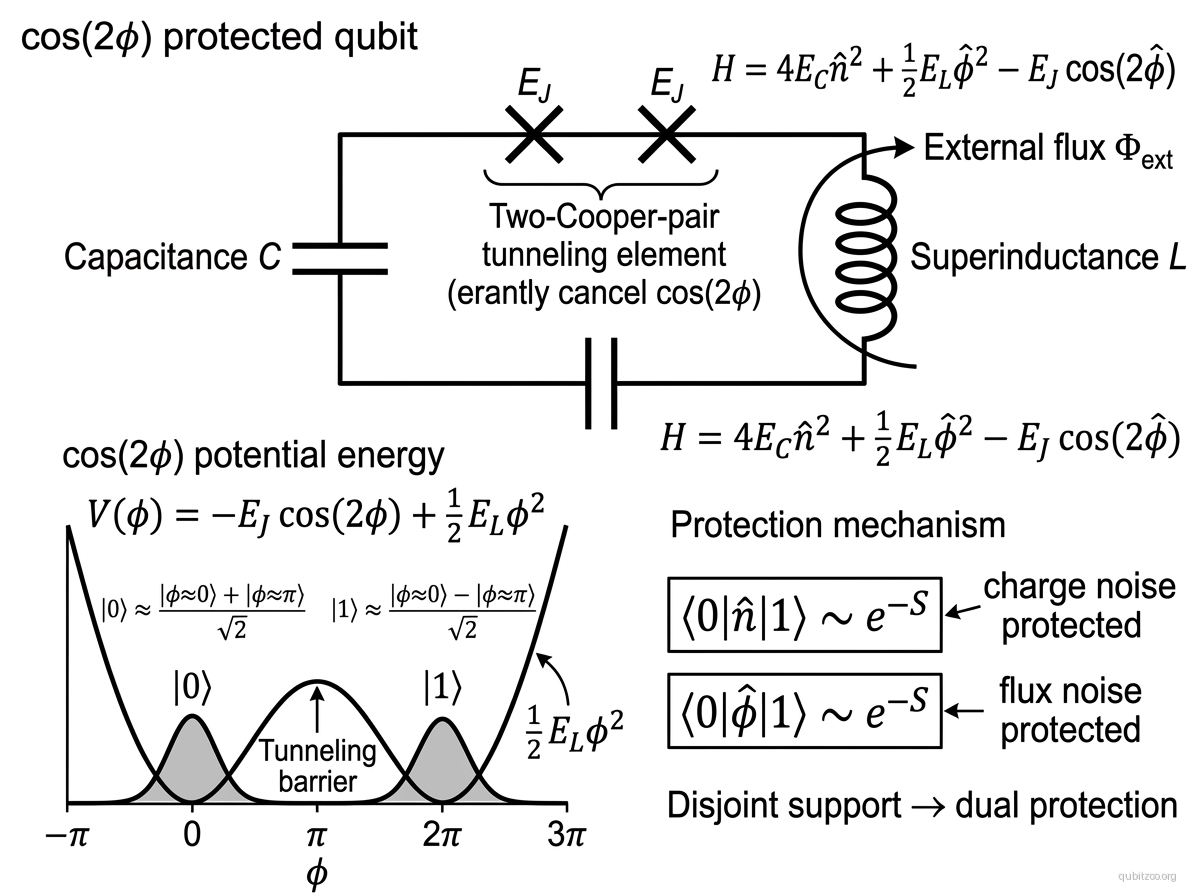
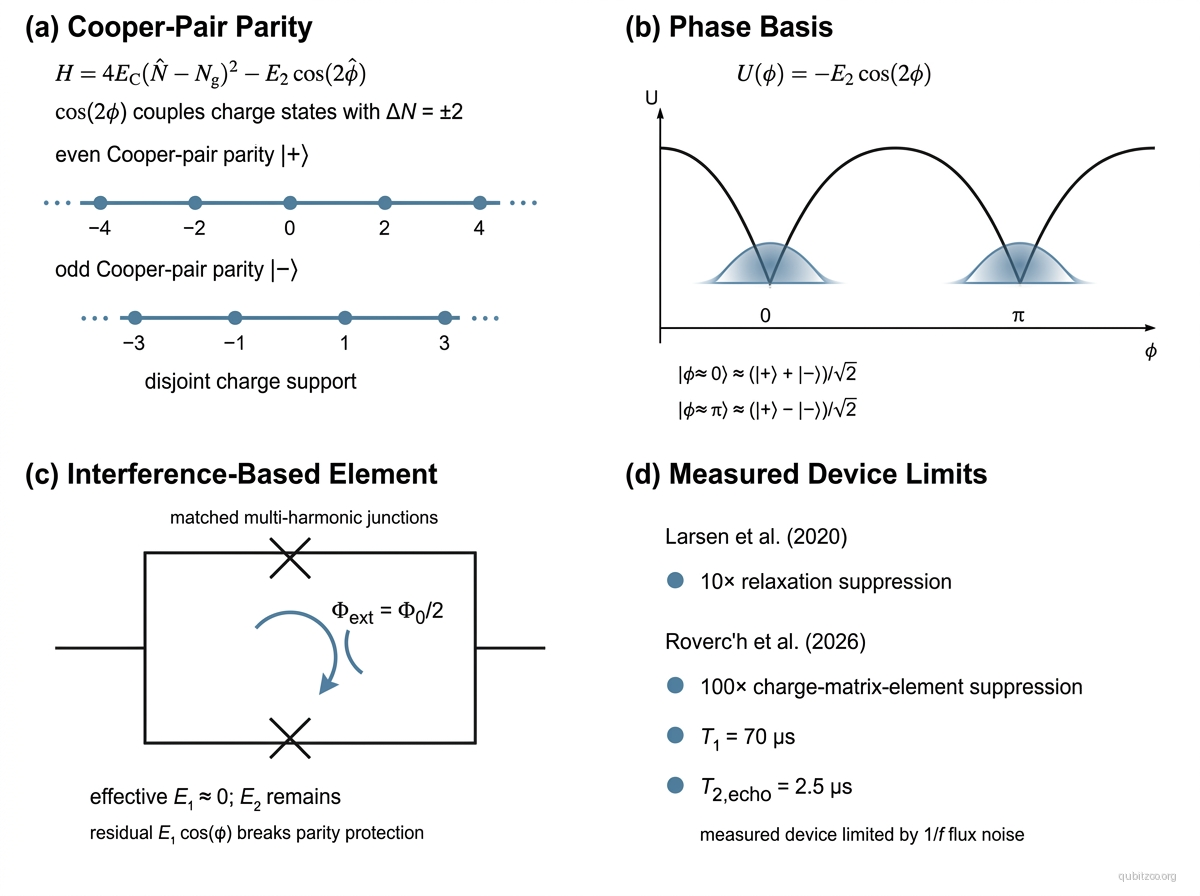
audit: deep-audit cos2phi qubit entry

diff --git a/content/Zoo/cos2phi-qubit.md b/content/Zoo/cos2phi-qubit.md
@@ -2,9 +2,10 @@
 title: cos(2φ) Qubit
 entry_type: qubit
 technology_family: Superconducting
-status: proposed
+status: demonstrated
 figure_reviewed: true
 first_proposed_year: 2019
+first_demonstrated_year: 2020
 keywords:
 - cos2phi
 - protected qubit
@@ -14,10 +15,15 @@ keywords:
 - disjoint support
 - two-Cooper-pair tunneling
 influence_score: 0.60
-last_updated: '2026-03-21'
+last_updated: '2026-08-01'
 generated_by: scibok-curation
 extracted_by: manual
-verified_by: scibok-manual-2026-03-21
+verified_by: scibok-deep-audit-2026-08-01
+figure_renderer: "nano-banana-2"
+figure_model: "google/gemini-3.1-flash-image-preview"
+figure_provenance: "Figures/cos2phi-qubit-figure.provenance.json"
+figure_reviewed_by: "scibok-deep-audit-2026-08-01"
+figure_reviewed_at: "2026-08-01T15:09:23.788429+00:00"
 ---
 
 ## Figure
@@ -26,63 +32,95 @@ verified_by: scibok-manual-2026-03-21
 
 ## Description
 
-The cos(2φ) qubit is a proposed superconducting qubit with intrinsic protection against both charge noise and flux noise simultaneously, achieved through a potential energy that is $\pi$-periodic in the superconducting phase $\phi$ rather than $2\pi$-periodic. The qubit states are encoded in two degenerate minima of this $\cos(2\phi)$ potential, and transitions between them require tunneling through a large barrier — exponentially suppressing both bit-flip and phase-flip errors.
+The cos(2φ) qubit is a parity-protected superconducting qubit built around a Josephson element whose energy is approximately $\pi$-periodic in the superconducting phase. In the ideal limit, the element coherently transfers pairs of Cooper pairs (charge $4e$), producing a $-E_2\cos(2\phi)$ potential and conserving the parity of the Cooper-pair number on the island.
 
-Most superconducting qubits are protected against one type of noise at the cost of sensitivity to another. The transmon suppresses charge noise by operating at large $E_J/E_C$, but gains sensitivity to flux noise. The flux qubit can be biased to a sweet spot for flux noise but remains charge-sensitive. The cos(2φ) qubit breaks this tradeoff.
+The two lowest energy eigenstates belong to opposite Cooper-pair-parity sectors: one contains only even charge states and the other only odd charge states. They are not simply wavefunctions localized in the two phase wells. Rather, phase-localized states near $\phi=0$ and $\phi=\pi$ are superpositions of the even- and odd-parity eigenstates. This complementary charge/phase structure is the origin of the protection proposed by Smith et al. (2020), and it must be stated with a basis convention: the same pair of states cannot simultaneously be described as both parity eigenstates and localized well states.
 
-The key insight: if the Josephson potential is $\cos(2\phi)$ rather than $\cos(\phi)$, the two qubit states $|0\rangle$ and $|1\rangle$ have wavefunctions localized in different wells separated by $\pi$ in phase space. Crucially, the charge and flux matrix elements connecting $|0\rangle$ and $|1\rangle$ are both exponentially small in the barrier height — the operators $\hat{\phi}$ and $\hat{n}$ have **disjoint support** on the two qubit states.
+Parity conservation suppresses charge-induced transitions between the qubit eigenstates. Practical devices generate the second harmonic by destructive interference of odd Josephson harmonics near half a flux quantum, or by engineering an intrinsically strong charge-$4e$ current-phase relation. Residual first-harmonic terms break the parity symmetry, while fluctuations in the interference loop can make the device strongly sensitive to flux noise.
 
-Proposed implementations use circuits with pairs of Josephson junctions arranged to cancel the $\cos(\phi)$ term and retain only $\cos(2\phi)$, typically involving a superinductance and carefully tuned junction asymmetry.
+The platform is now experimentally demonstrated. Larsen et al. observed a tenfold relaxation suppression in a semiconductor-junction interferometer in 2020. In 2026, Roverc'h et al. and Zhurbina et al. independently realized cos(2φ)-dominated transmon-like qubits with coherent control. Both 2026 studies identified flux noise associated with imperfect first-harmonic cancellation as the principal remaining limitation, so the architecture does not generically provide simultaneous exponential protection from every local noise channel.
 
 ## Hamiltonian
 
-Effective Hamiltonian:
+An ideal single-mode model is
 
-$$H = 4E_C \hat{n}^2 + \frac{1}{2}E_L \hat{\phi}^2 - E_J \cos(2\hat{\phi})$$
+$$H_{\mathrm{ideal}} = 4E_C(\hat{N}-N_g)^2-E_2\cos(2\hat{\phi}),$$
 
-where $E_C$ is the charging energy, $E_L$ is the inductive energy from the superinductance, and $E_J$ is the effective Josephson energy of the $\cos(2\phi)$ element.
+where $\hat N$ counts Cooper pairs on the island, $N_g$ is the offset charge, and $E_2$ is the coherent two-Cooper-pair tunneling amplitude. Because $\cos(2\hat\phi)$ changes $N$ only by $\pm2$,
 
-The qubit states are the symmetric and antisymmetric combinations of wavefunctions localized near $\phi = 0$ and $\phi = \pi$:
+$$[H_{\mathrm{ideal}},(-1)^{\hat N}]=0.$$
 
-$$|0\rangle \approx \frac{1}{\sqrt{2}}(|\phi \approx 0\rangle + |\phi \approx \pi\rangle)$$
-$$|1\rangle \approx \frac{1}{\sqrt{2}}(|\phi \approx 0\rangle - |\phi \approx \pi\rangle)$$
+The qubit eigenstates may therefore be labeled by Cooper-pair parity,
 
-Protection mechanism: $\langle 0|\hat{n}|1\rangle \sim e^{-S}$ and $\langle 0|\hat{\phi}|1\rangle \sim e^{-S}$ where $S$ is the WKB tunneling action through the barrier.
+$$|+\rangle=\sum_k c_{2k}|2k\rangle,\qquad |-\rangle=\sum_k c_{2k+1}|2k+1\rangle.$$
+
+The states localized near the two minima of the phase potential are instead approximately
+
+$$|\circlearrowright/\circlearrowleft\rangle\approx\frac{|+\rangle\pm|-\rangle}{\sqrt2},$$
+
+with centers separated by $\pi$. Charge-local operators cannot connect the two parity sectors in the ideal limit, while the two localized phase states acquire exponentially small overlap as $E_2/E_C$ grows. A practical interference-based device is better represented by
+
+$$H = 4E_C(\hat N-N_g)^2-E_1(\Phi_{\mathrm{ext}})\cos\hat\phi-E_2(\Phi_{\mathrm{ext}})\cos(2\hat\phi)+\cdots,$$
+
+where the intended operating point has $E_1\approx0$. Residual $E_1$ and flux fluctuations explicitly limit the protection. The earlier entry's added $E_L\hat\phi^2/2$ term described one specific superinductive implementation, not the generic ideal cos(2φ) qubit.
 
 ## Motivation
 
-- **Dual protection:** First superconducting qubit proposal with simultaneous exponential suppression of both charge and flux noise — breaks the transmon/fluxonium tradeoff.
-- **Disjoint support:** Qubit states have exponentially small overlap in both charge and flux basis, making all local noise channels exponentially suppressed.
-- **Potential QEC bypass:** If realized, could eliminate the need for quantum error correction at the physical level for memory operations.
-- **Scalable protection:** Protection improves exponentially with barrier height, which is a tunable circuit parameter.
+- **Parity selection rule:** A dominant second harmonic separates the qubit eigenstates into even and odd Cooper-pair-number sectors, strongly suppressing charge-coupled relaxation.
+- **Hardware-level error bias:** Intrinsic selection rules can reduce selected physical error channels and potentially lower, but not eliminate, the overhead of active quantum error correction.
+- **Test of engineered Josephson harmonics:** The architecture directly probes whether interference or material engineering can produce a sufficiently pure charge-$4e$ tunneling element.
+- **Clear engineering target:** Progress can be measured through odd-harmonic suppression, charge-matrix-element suppression, and the residual flux-noise floor.
+
+## Experimental Status
+
+- **2020 — first parity-protection experiment:** Larsen et al. used gate-tunable semiconductor Josephson junctions in a half-flux interferometer and observed a tenfold suppression of relaxation in the protected regime.
+- **2025 — high-purity second-harmonic element:** Leblanc et al. demonstrated a planar-Ge SQUID whose $\sin(2\phi)$ contribution reached 95.2% of the total supercurrent. This was an enabling element, not yet a complete qubit benchmark.
+- **2026 — soft-transmon realization:** Roverc'h et al. measured a 13.6 MHz opposite-parity doublet, a 100-fold suppression of the island charge matrix element, coherent control, and single-shot readout. The measured $T_1=70\,\mu\mathrm{s}$ and $T_2^{\mathrm{echo}}=2.5\,\mu\mathrm{s}$ were limited by $1/f$ flux noise.
+- **2026 — independent Fourier-engineered realization:** Zhurbina et al. suppressed odd harmonics in a multi-junction circuit and reproduced the expected cos(2φ) spectrum, but again found flux noise from residual first-harmonic fluctuations to be the limiting mechanism.
+- **2026 — practical limit identified:** Messelot et al. showed that interference-based implementations retain a charge-versus-flux-noise tradeoff; their modeling permits millisecond-scale $T_1$ in favorable regimes while $T_\phi$ remains limited to a few microseconds with present parameters.
 
 ## Key Metrics
 
 | Metric | Value | Notes | Fidelity reference |
 |--------|-------|-------|--------------------|
-| Predicted $T_1$ enhancement | $10^2$–$10^4$ × | Over transmon, from exponential suppression | [Smith et al. 2020](https://doi.org/10.1038/s41534-019-0231-2) |
-| Protection type | Charge + flux | Simultaneous protection (unique among SC qubits) | [Smith et al. 2020](https://doi.org/10.1038/s41534-019-0231-2) |
-| Required inductance | >100 nH | Superinductance (granular aluminum or JJ array) | — |
-| Experimental status | Not yet realized | Circuit complexity is the barrier | — |
+| Relaxation suppression | 10× | First semiconductor-interferometer parity-protection experiment | [Larsen et al. 2020](https://doi.org/10.1103/PhysRevLett.125.056801) |
+| Second-harmonic current fraction | 95.2% | Planar-Ge $\sin(2\phi)$ Josephson element; enabling component rather than a complete qubit | [Leblanc et al. 2025](https://doi.org/10.1038/s41467-025-56245-7) |
+| Opposite-parity splitting | 13.6 MHz | Soft-transmon cos(2φ) realization | [Roverc'h et al. 2026](https://arxiv.org/abs/2603.13114) |
+| Charge-matrix-element suppression | 100× | Relative to the unprotected plasmon transition; dielectric-loss limit above 10 ms | [Roverc'h et al. 2026](https://arxiv.org/abs/2603.13114) |
+| Measured coherence | $T_1=70\,\mu\mathrm{s}$; $T_2^{\mathrm{echo}}=2.5\,\mu\mathrm{s}$ | Limited by $1/f$ flux noise, not charge-induced loss | [Roverc'h et al. 2026](https://arxiv.org/abs/2603.13114) |
 
 ## Scaling Considerations
 
-- **Circuit complexity:** Requires precise cancellation of $\cos(\phi)$ terms, demanding high junction symmetry and stable superinductance.
-- **Not yet demonstrated:** Remains theoretical. The required parameter regime is at the edge of current fabrication capabilities.
-- **Potential payoff:** If realized, would be the first superconducting qubit with built-in protection against all local noise channels, potentially eliminating the need for QEC at the physical level for memory operations.
+- **Odd-harmonic purity:** Interference-based implementations require precise junction matching and half-flux biasing; a small residual $E_1\cos\phi$ term breaks Cooper-pair parity.
+- **Flux-noise exposure:** The same loop used to cancel odd harmonics introduces a sensitive flux degree of freedom. Both 2026 experiments found this to be the dominant coherence limitation.
+- **Control versus protection:** A strongly protected transition also becomes difficult to drive and read out. Practical protocols may temporarily weaken the symmetry or couple through an auxiliary mode.
+- **Fabrication routes:** Semiconductor weak links and multi-junction Fourier engineering offer tunability, while intrinsically clean charge-$4e$ elements could reduce the need for fine cancellation.
+- **QEC remains necessary:** Present devices suppress selected matrix elements but do not remove leakage, control error, quasiparticles, flux noise, or correlated faults.
 
 ## References
 
 ### Original proposal
 - W. C. Smith et al., "Superconducting circuit protected by two-Cooper-pair tunneling," [npj Quantum Inf. 6, 8 (2020)](https://doi.org/10.1038/s41534-019-0231-2) — [arXiv:1905.01206](https://arxiv.org/abs/1905.01206)
 
+### Experimental milestones
+- T. W. Larsen et al., "Parity-Protected Superconductor-Semiconductor Qubit," [Phys. Rev. Lett. 125, 056801 (2020)](https://doi.org/10.1103/PhysRevLett.125.056801) — [arXiv:2004.03975](https://arxiv.org/abs/2004.03975)
+- A. Leblanc et al., "Gate- and flux-tunable sin(2φ) Josephson element with planar-Ge junctions," [Nature Communications 16, 1010 (2025)](https://doi.org/10.1038/s41467-025-56245-7)
+- E. Roverc'h et al., "Experimental realization of a cos(2φ) transmon qubit," [arXiv:2603.13114 (2026)](https://arxiv.org/abs/2603.13114)
+- N. K. Zhurbina et al., "Coherence limitations of a Fourier-engineered cos(2φ) transmon qubit," [arXiv:2605.06372 (2026)](https://arxiv.org/abs/2605.06372)
+
 ### Related theory
-- A. Kitaev, "Protected qubit based on a superconducting current mirror," [arXiv:cond-mat/0609441](https://arxiv.org/abs/cond-mat/0609441) (2006)
 - P. Brooks, A. Kitaev, and J. Preskill, "Protected gates for superconducting qubits," [Phys. Rev. A 87, 052306 (2013)](https://doi.org/10.1103/PhysRevA.87.052306) — [arXiv:1302.4122](https://arxiv.org/abs/1302.4122)
+- S. Messelot et al., "Coherence limits in the interference-based cos(2φ) qubits," [Physical Review Applied, accepted 10 June 2026](https://doi.org/10.1103/x4vn-51dj) — [arXiv:2601.10209](https://arxiv.org/abs/2601.10209)
 
 ## Linked Papers
 
 - [[smith-2020-superconducting-circuit-protected]]
+- [[larsen-2020-parity-protected-superconductor-semiconductor-qubit]]
+- [[leblanc-2025-gate-flux-tunable-sin2phi-element]]
+- [[roverch-2026-experimental-cos2phi-transmon]]
+- [[zhurbina-2026-coherence-limitations-of-a]]
+- [[brooks-2013-0-pi-qubit]]
+- [[messelot-2026-coherence-limits-cos2phi-qubits]]
 
 ## Evergreen context
 
@@ -97,3 +135,5 @@ Protection mechanism: $\langle 0|\hat{n}|1\rangle \sim e^{-S}$ and $\langle 0|\h
 - [[heavy-fluxonium-qubit]] — Heavy variant approaching protected regime
 - [[blochnium]] — Single-junction superinductance qubit
 - [[transmon]] — conventional transmon that cos(2φ) qubit improves upon via disjoint support
+- [[gatemonium]] — another higher-harmonic semiconductor-junction route to protected superconducting operation
+- [[ferbo-qubit]] — protected superconductor-semiconductor alternative using Andreev–bosonic hybridization rather than Cooper-pair parity

diff --git a/content/References/zhurbina-2026-coherence-limitations-of-a.md b/content/References/zhurbina-2026-coherence-limitations-of-a.md
@@ -1,42 +1,31 @@
 ---
-title: Coherence limitations of a Fourier-engineered $\cos(2\varphi)$ transmon qubit
-authors:
-- Nataliia K. Zhurbina
-- Siddharth Singh
-- Lukas J. Splitthoff
-- Eugene Y. Huang
-- Figen Yilmaz
-- A. Mert Bozkurt
-- Christian Kraglund Andersen
+title: "Coherence limitations of a Fourier-engineered cos(2φ) transmon qubit"
+authors: [Nataliia K. Zhurbina, Siddharth Singh, Lukas J. Splitthoff, Eugene Y. Huang, Figen Yilmaz, A. Mert Bozkurt, Christian Kraglund Andersen]
 year: 2026
-journal: arXiv preprint
+journal: "arXiv preprint"
 doi: null
 arxiv_id: '2605.06372'
-language: en
-date_ingested: '2026-05-08'
+type: reference
 verification_status: verified
-influence_score: 0.68
-novelty_flag: breakthrough
-extracted_by: claude-code
-verified_by: codex
-disputes: 0
-generated_by: pipeline-v1
+generated_by: scibok-audit-backfill
+verified_by: paper-title-page-2026-08-01
+last_updated: '2026-08-01'
 ---
 
-Transmon is a superconducting qubit approach for quantum computing hardware. Source: latex text.
-
 ## Abstract
-Intrinsically protected superconducting qubits are a promising route toward enhancing coherence times and advancing hardware towards applications in quantum computing. The $\cos(2\varphi)$ qubit achieves protection against qubit relaxation by allowing only the coherent tunneling of pairs of Cooper pairs, resulting in Cooper-pair parity symmetry and thereby suppressing charge-induced errors. In this work, we experimentally realize a $\cos(2\varphi)$ qubit by Fourier engineering the energy-phase relation in a multi-junction superconducting circuit. Using an interference-based architecture, we are able to suppress the odd harmonics of an effective qubit potential and we observe good agreement between the measured transition spectrum and the effective theoretical model. We further investigate the energy relaxation time as a function of external flux and find that the qubit lifetime at the flux symmetry point is limited by $1/f$ flux noise. This strong sensitivity arises from residual fluctuations in the first harmonic, which possesses a large prefactor despite being nominally canceled. In contrast, a fluxonium qubit with a similar energy spectrum and noise amplitude is less affected by flux noise, highlighting a key challenge for interference-based protection schemes.
 
-## Key Findings
+A multi-junction circuit Fourier-engineers a cos(2φ)-dominated potential and reproduces the predicted parity-protected spectrum, while exposing flux noise from the residual first harmonic as the dominant lifetime limitation.
 
+## Key Results
+
+- Experimentally suppressed odd harmonics in a multi-junction superconducting circuit.
+- Found good agreement between the measured transition spectrum and the effective cos(2φ) model.
+- Identified $1/f$ flux noise near the symmetry point as the limiting mechanism and showed that an otherwise similar fluxonium is less vulnerable.
 
 ## Links
+
 - **arXiv:** [2605.06372](https://arxiv.org/abs/2605.06372)
 
-## Verification Report
-Verification status: **verified**.
-Disputes resolved: **0**.
-Citation count snapshot (Semantic Scholar): **0**.
-Ingestion source: **latex**.
-Text truncated: **no**.
+## Zoo Links
+
+- [[cos2phi-qubit]]

diff --git a/content/MOCs/superconducting-moc.md b/content/MOCs/superconducting-moc.md
@@ -22,7 +22,7 @@ Curated map of Zoo entries in the **Superconducting** family.
 | [[bosonic-qubit]] | qubit | demonstrated |
 | [[cat-codes]] | qubit | demonstrated |
 | [[cooper-pair-box-charge-qubit]] | qubit | demonstrated |
-| [[cos2phi-qubit]] | qubit | proposed |
+| [[cos2phi-qubit]] | qubit | demonstrated |
 | [[dual-rail-superconducting-qubit]] | qubit | demonstrated |
 | [[flux-qubit]] | qubit | demonstrated |
 | [[fluxonium]] | qubit | demonstrated |
@@ -233,7 +233,7 @@ A useful routing rule is that `circuit-qed` is **infrastructure, not a peer qubi
 
 - `heavy-fluxonium-qubit` is the **nearest-term coherence-first branch**. It still lives squarely inside familiar fluxonium control and readout practice, but uses disjoint-support wavefunctions and sweet-spot operation to suppress matrix elements before the error ever reaches the decoder.
 - `blochnium` is the **duality branch**. Read it when the interesting claim is quasicharge physics, large anharmonicity, and flux-dispersion flattening, not maximal passive protection in the 0-π sense.
-- `0-pi-qubit` and `cos2phi-qubit` are the **symmetry-engineered protection branch**. They belong together because both aim for multi-axis protection by reshaping the circuit potential itself, even though `0-pi-qubit` is experimentally ahead and `cos2phi-qubit` is still a more aspirational construction.
+- `0-pi-qubit` and `cos2phi-qubit` are the **symmetry-engineered protection branch**. Both are experimentally demonstrated, but neither yet eliminates active error correction: the cos(2φ) route strongly suppresses charge-coupled relaxation while present interference-based devices remain flux-noise limited.
 - `dual-rail-superconducting-qubit` should sit adjacent to this branch, not inside it: the payoff is still lower logical overhead, but via flagged leakage and erasure structure rather than suppressed in-code-space matrix elements.
 
 ## Boundary with the super-semi family
@@ -243,7 +243,6 @@ Route superconducting descendants to [[super-semi-moc]] only when the semiconduc
 ## Editorial note
 
 This family mixes bare qubits, bosonic encodings, and enabling infrastructure. Keep the generated table exhaustive, but use the evergreen layer to prevent the family page from becoming a flat list.
-
 
 
 

diff --git a/content/References/leblanc-2025-gate-flux-tunable-sin2phi-element.md b/content/References/leblanc-2025-gate-flux-tunable-sin2phi-element.md
@@ -1,0 +1,30 @@
+---
+title: "Gate- and flux-tunable sin(2φ) Josephson element with planar-Ge junctions"
+authors: [Axel Leblanc, Chotivut Tangchingchai, Zahra Sadre Momtaz, Elyjah Kiyooka, Jean-Michel Hartmann, Frédéric Gustavo, Jean-Luc Thomassin, Boris Brun, Vivien Schmitt, Simon Zihlmann, Romain Maurand, Étienne Dumur, Silvano De Franceschi, François Lefloch]
+year: 2025
+journal: "Nature Communications"
+doi: 10.1038/s41467-025-56245-7
+type: reference
+verification_status: verified
+generated_by: scibok-audit-backfill
+verified_by: paper-title-page-and-crossref-2026-08-01
+last_updated: '2026-08-01'
+---
+
+## Abstract
+
+A planar-Ge Josephson interferometer is tuned to an almost π-periodic current-phase relation dominated by charge-4e transport.
+
+## Key Results
+
+- Measured a sin(2φ) contribution reaching 95.2% of the total supercurrent.
+- Suppressed the first harmonic by roughly two orders of magnitude through gate and flux tuning.
+- Demonstrated a high-purity building block for parity-protected superconducting qubits, not a complete qubit benchmark.
+
+## Links
+
+- **Journal:** [Nature Communications](https://doi.org/10.1038/s41467-025-56245-7)
+
+## Zoo Links
+
+- [[cos2phi-qubit]]

diff --git a/content/References/larsen-2020-parity-protected-superconductor-semiconductor-qubit.md b/content/References/larsen-2020-parity-protected-superconductor-semiconductor-qubit.md
@@ -1,0 +1,32 @@
+---
+title: "Parity-Protected Superconductor-Semiconductor Qubit"
+authors: [T. W. Larsen, M. E. Gershenson, L. Casparis, A. Kringhøj, N. J. Pearson, R. P. G. McNeil, F. Kuemmeth, P. Krogstrup, K. D. Petersson, C. M. Marcus]
+year: 2020
+journal: "Physical Review Letters"
+doi: 10.1103/PhysRevLett.125.056801
+arxiv_id: '2004.03975'
+type: reference
+verification_status: verified
+generated_by: scibok-audit-backfill
+verified_by: paper-title-page-and-crossref-2026-08-01
+last_updated: '2026-08-01'
+---
+
+## Abstract
+
+A gate-tunable semiconductor Josephson interferometer generates a dominant cos(2φ) term near half a flux quantum, realizing a Cooper-pair-parity-protected qubit.
+
+## Key Results
+
+- Demonstrated a tenfold suppression of qubit relaxation when tuned into the protected regime.
+- Established the first experimental parity-protection milestone for a cos(2φ) qubit architecture.
+- Showed that nanowire-junction tunability can compensate interferometer imbalance.
+
+## Links
+
+- **Journal:** [Physical Review Letters](https://doi.org/10.1103/PhysRevLett.125.056801)
+- **arXiv:** [2004.03975](https://arxiv.org/abs/2004.03975)
+
+## Zoo Links
+
+- [[cos2phi-qubit]]

diff --git a/content/References/messelot-2026-coherence-limits-cos2phi-qubits.md b/content/References/messelot-2026-coherence-limits-cos2phi-qubits.md
@@ -1,0 +1,32 @@
+---
+title: "Coherence limits in the interference-based cos(2φ) qubits"
+authors: [S. Messelot, A. Leblanc, J.-S. Tettekpoe, F. Lefloch, Q. Ficheux, J. Renard, É. Dumur]
+year: 2026
+journal: "Physical Review Applied"
+doi: 10.1103/x4vn-51dj
+arxiv_id: '2601.10209'
+type: reference
+verification_status: verified
+generated_by: scibok-audit-backfill
+verified_by: paper-title-page-and-crossref-2026-08-01
+last_updated: '2026-08-01'
+---
+
+## Abstract
+
+Interference-based cos(2φ) qubits retain a practical tradeoff between charge-noise and flux-noise dephasing even when their odd Josephson harmonics are strongly suppressed.
+
+## Key Results
+
+- Unified several single-loop cos(2φ) implementations under a multi-harmonic SQUID Hamiltonian.
+- Found that favorable parameters can support millisecond-scale $T_1$ while $T_\phi$ remains limited to a few microseconds.
+- Identified residual first-harmonic fluctuations and interference-loop flux noise as fundamental engineering constraints.
+
+## Links
+
+- **Journal:** [Physical Review Applied](https://doi.org/10.1103/x4vn-51dj)
+- **arXiv:** [2601.10209](https://arxiv.org/abs/2601.10209)
+
+## Zoo Links
+
+- [[cos2phi-qubit]]

diff --git a/content/References/smith-2020-superconducting-circuit-protected.md b/content/References/smith-2020-superconducting-circuit-protected.md
@@ -4,12 +4,17 @@ authors: [W. C. Smith, A. Kou, X. Xiao, U. Vool, M. H. Devoret]
 year: 2020
 journal: "npj Quantum Information"
 doi: 10.1038/s41534-019-0231-2
+arxiv_id: '1905.01206'
 type: reference
 generated_by: scibok-audit-backfill
-last_updated: '2026-03-25'
+verification_status: verified
+verified_by: paper-title-page-and-crossref-2026-08-01
+last_updated: '2026-08-01'
 ---
 
-AbstractWe present a protected superconducting qubit based on an effective circuit element that only allows pairs of Cooper pairs to tunnel.
+## Abstract
+
+The proposal introduces an effective element that transfers pairs of Cooper pairs, yielding a nearly degenerate ground-state manifold indexed by Cooper-pair parity.
 
 ## Key Results
 - These dynamics give rise to a nearly degenerate ground state manifold indexed by the parity of tunneled Cooper pairs.
@@ -17,6 +22,7 @@ AbstractWe present a protected superconducting qubit based on an effective circu
 
 ## Links
 - **Journal:** [npj Quantum Information](https://doi.org/10.1038/s41534-019-0231-2)
+- **arXiv:** [1905.01206](https://arxiv.org/abs/1905.01206)
 
 ## Zoo Links
 - [[cos2phi-qubit]]

diff --git a/content/References/roverch-2026-experimental-cos2phi-transmon.md b/content/References/roverch-2026-experimental-cos2phi-transmon.md
@@ -1,0 +1,31 @@
+---
+title: "Experimental realization of a cos(2φ) transmon qubit"
+authors: [E. Roverc'h, A. Borgognoni, M. Villiers, K. Gerashchenko, W. C. Smith, C. Wilson, B. Douçot, A. Petrescu, P. Campagne-Ibarcq, Z. Leghtas]
+year: 2026
+journal: "arXiv preprint"
+doi: null
+arxiv_id: '2603.13114'
+type: reference
+verification_status: verified
+generated_by: scibok-audit-backfill
+verified_by: paper-title-page-2026-08-01
+last_updated: '2026-08-01'
+---
+
+## Abstract
+
+A soft-transmon cos(2φ) device demonstrates coherent control, single-shot readout, and strong suppression of charge-induced relaxation while exposing residual flux noise as the dominant limitation.
+
+## Key Results
+
+- Resolved an opposite-Cooper-pair-parity doublet split by 13.6 MHz.
+- Measured a 100-fold suppression of the island charge matrix element relative to the unprotected plasmon transition.
+- Reported $T_1=70\,\mu\mathrm{s}$ and $T_2^{\mathrm{echo}}=2.5\,\mu\mathrm{s}$, both limited by $1/f$ flux noise.
+
+## Links
+
+- **arXiv:** [2603.13114](https://arxiv.org/abs/2603.13114)
+
+## Zoo Links
+
+- [[cos2phi-qubit]]
